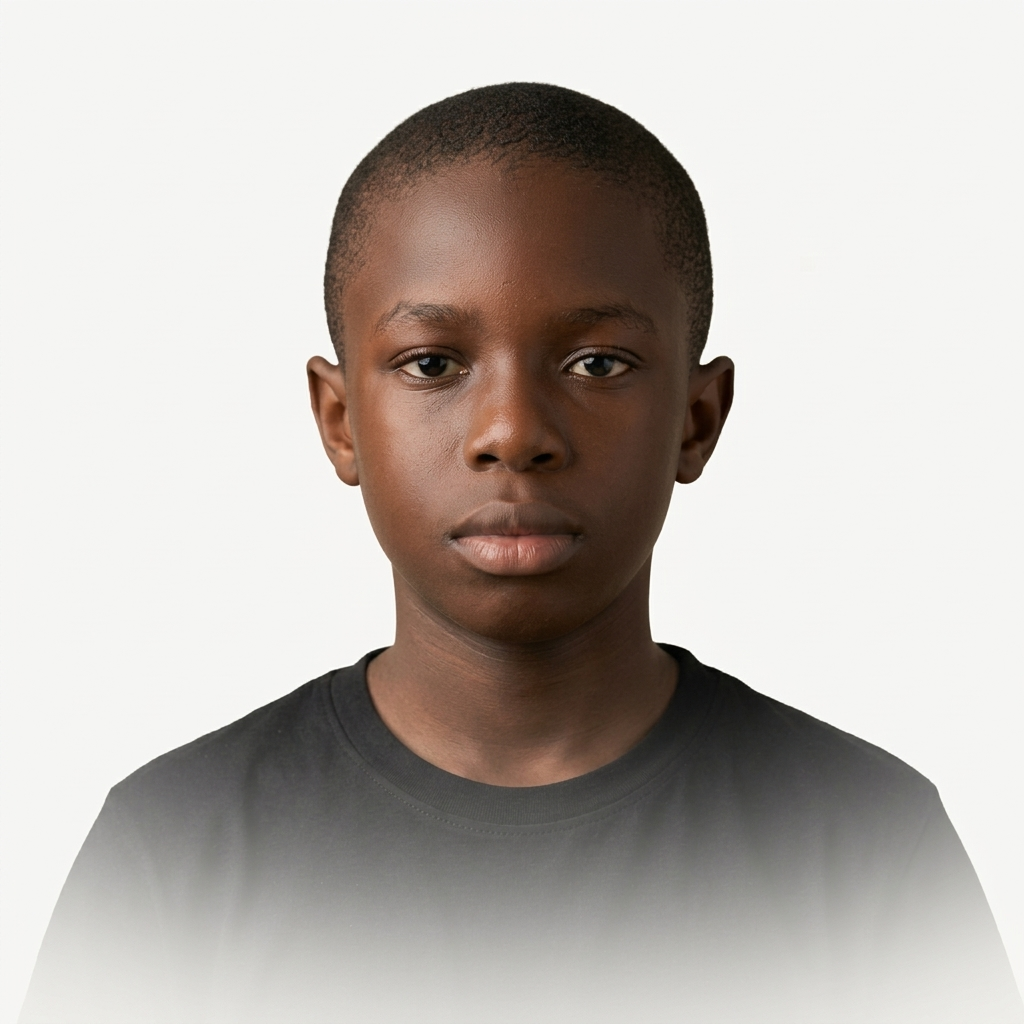
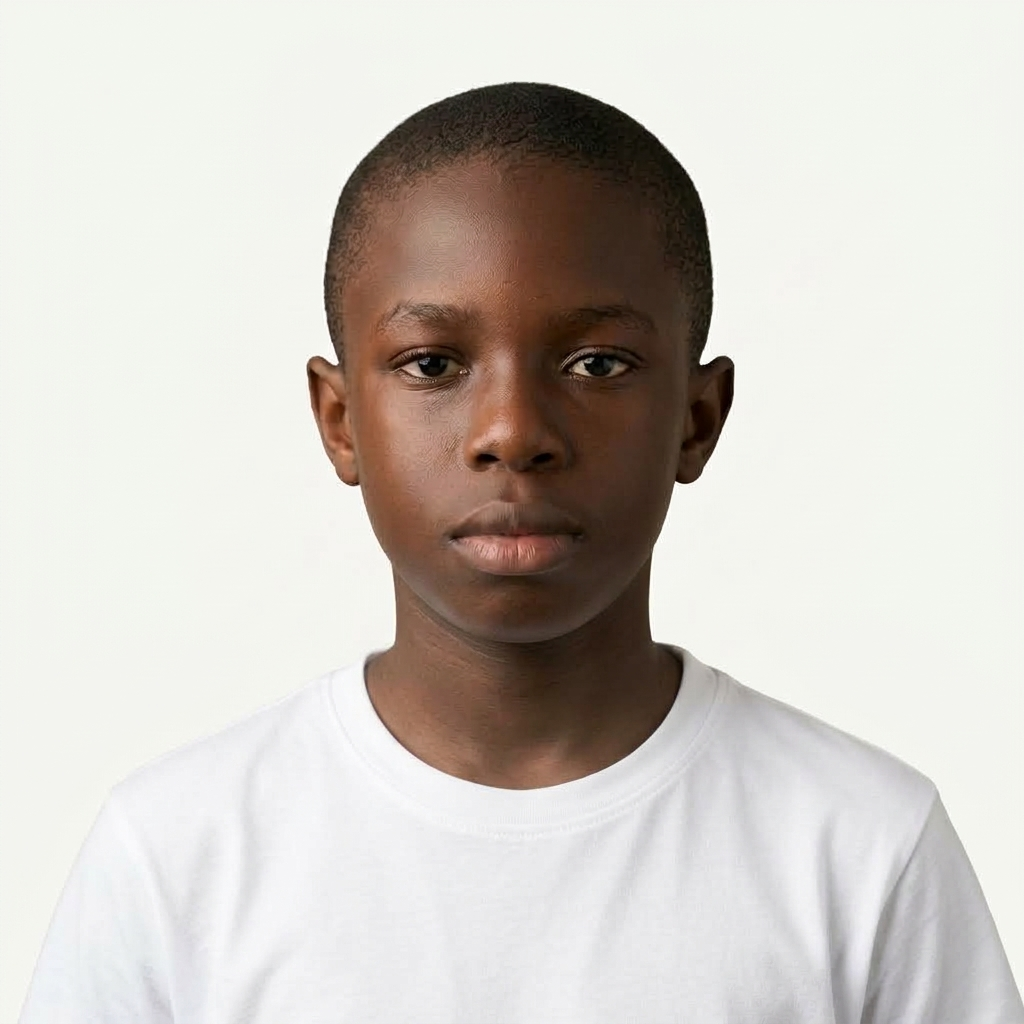
feat: clean up portrait with white t-shirt and place centered hero cutout matching Luzia Framer layout

Changed region(s): [[0.0312, 0.625, 1.0, 1.0], [0.4062, 0.5625, 0.5938, 0.625], [0.5312, 0.5312, 0.5625, 0.5625]]

diff --git a/src/components/sections/Hero.tsx b/src/components/sections/Hero.tsx
@@ -8,14 +8,14 @@ export default function Hero() {
   return (
     <section className="relative pt-24 pb-8 sm:pt-28 sm:pb-12 md:pt-36 md:pb-16 overflow-hidden">
       <div className="max-w-[1140px] mx-auto px-4 sm:px-6">
-        {/* Responsive Grid with Interactive Avatar Hover Card */}
-        <div className="relative grid grid-cols-1 lg:grid-cols-12 gap-8 lg:gap-6 items-center">
+        {/* Luzia Framer 3-Column / Centered Portrait Layout */}
+        <div className="relative grid grid-cols-1 lg:grid-cols-12 gap-8 lg:gap-4 items-center">
           {/* Left Column: Availability Badge + Main Display Headline */}
           <motion.div
             initial={{ opacity: 0, y: 24, filter: "blur(4px)" }}
             animate={{ opacity: 1, y: 0, filter: "blur(0px)" }}
             transition={{ duration: 0.65, ease: [0.16, 1, 0.3, 1] }}
-            className="lg:col-span-5 z-20 space-y-4 sm:space-y-6 text-left"
+            className="lg:col-span-4 z-20 space-y-4 sm:space-y-6 text-left"
           >
             {/* Availability Pill */}
             <div className="inline-flex items-center gap-2 rounded-full border border-[#E7E7E5] bg-white/90 backdrop-blur-sm px-3.5 py-1.5 shadow-sm">
@@ -35,12 +35,43 @@ export default function Hero() {
                 clean code and modern web design
               </span>
             </h1>
+          </motion.div>
 
+          {/* Center Column: Prominent Portrait Cutout (Luzia Framer Style) */}
+          <motion.div
+            initial={{ opacity: 0, scale: 0.95, y: 20 }}
+            animate={{ opacity: 1, scale: 1, y: 0 }}
+            transition={{ duration: 0.75, delay: 0.1, ease: [0.16, 1, 0.3, 1] }}
+            className="lg:col-span-4 flex justify-center items-center relative z-10 -my-4 sm:-my-6 lg:-my-8"
+          >
+            <div className="relative w-[280px] sm:w-[340px] md:w-[380px] aspect-square">
+              {/* Main Cutout Portrait with White T-Shirt and Seamless Studio Background */}
+              <Image
+                src="/images/tj_hero.jpg"
+                alt="Terrence J. Mark - Web Developer"
+                fill
+                priority
+                className="object-contain object-center select-none pointer-events-none drop-shadow-sm rounded-[24px]"
+                sizes="(max-width: 768px) 300px, 400px"
+              />
+
+              {/* Bottom Soft Gradient Mask to blend seamlessly into page background */}
+              <div className="absolute inset-x-0 bottom-0 h-16 bg-gradient-to-t from-[#F8F8F7] via-[#F8F8F7]/60 to-transparent pointer-events-none" />
+            </div>
+          </motion.div>
+
+          {/* Right Column: Bio Summary + Action CTA Button */}
+          <motion.div
+            initial={{ opacity: 0, y: 24, filter: "blur(4px)" }}
+            animate={{ opacity: 1, y: 0, filter: "blur(0px)" }}
+            transition={{ duration: 0.65, delay: 0.15, ease: [0.16, 1, 0.3, 1] }}
+            className="lg:col-span-4 z-20 space-y-6 text-left lg:text-left flex flex-col lg:items-start justify-center"
+          >
             <p className="text-sm sm:text-base text-[#666665] leading-relaxed font-normal max-w-md">
-              As a 12-year-old web developer and Spex intern, he collaborates closely with teams to craft seamless, responsive, and user-centered web applications.
+              As a 12-year-old web developer and Spex intern, he collaborates closely with teams to craft seamless, responsive, and user-centered web applications. A dedicated partner in bringing digital ideas to life.
             </p>
 
-            <div className="pt-2">
+            <div className="pt-1">
               <a
                 href="#contact"
                 className="group inline-flex items-center justify-center gap-2 rounded-full bg-[#111111] px-7 py-3.5 text-sm font-medium text-white transition-all duration-200 hover:bg-[#222222] active:scale-[0.97] shadow-[0_12px_28px_rgba(0,0,0,0.16)]"
@@ -50,44 +81,9 @@ export default function Hero() {
               </a>
             </div>
           </motion.div>
-
-          {/* Right Column: Interactive Profile Card with Dark Metallic Transition */}
-          <motion.div
-            initial={{ opacity: 0, scale: 0.95, y: 20 }}
-            animate={{ opacity: 1, scale: 1, y: 0 }}
-            transition={{ duration: 0.75, delay: 0.1, ease: [0.16, 1, 0.3, 1] }}
-            className="lg:col-span-7 flex justify-center lg:justify-end items-center relative z-10"
-          >
-            <div className="group relative w-full max-w-[320px] sm:max-w-[360px] rounded-[24px] border border-[#e2e8f0] bg-white p-6 sm:p-8 flex flex-col items-center text-center shadow-[0_4px_16px_rgba(0,0,0,0.05)] transition-all duration-300 ease-[cubic-bezier(0.16,1,0.3,1)] hover:bg-[linear-gradient(145deg,#242933_0%,#15181e_100%)] hover:border-white/20 hover:-translate-y-1.5 hover:shadow-[0_20px_40px_-8px_rgba(0,0,0,0.4)] cursor-pointer">
-              {/* Target Avatar Frame Ring */}
-              <div className="relative w-[150px] h-[150px] sm:w-[170px] sm:h-[170px] rounded-full p-1 bg-white border-[1.5px] border-[#e2e8f0] shadow-[0_4px_12px_rgba(0,0,0,0.06)] mb-5 transition-all duration-300 ease-[cubic-bezier(0.16,1,0.3,1)] group-hover:border-white/40 group-hover:bg-transparent group-hover:scale-[1.03] group-hover:shadow-[0_0_20px_rgba(255,255,255,0.2)] overflow-hidden">
-                <Image
-                  src="/images/tj_portrait.jpg"
-                  alt="Terrence J. Mark - Profile Avatar"
-                  fill
-                  priority
-                  className="rounded-full object-cover object-top p-0.5"
-                  sizes="170px"
-                />
-              </div>
-
-              {/* Title & Location */}
-              <h2 className="text-lg sm:text-xl font-semibold tracking-[-0.015em] text-[#0f172a] mb-1 transition-colors duration-200 group-hover:text-white">
-                Frontend Developer
-              </h2>
-              <span className="text-xs sm:text-sm font-medium text-[#64748b] transition-colors duration-200 group-hover:text-[#cbd5e1]">
-                Abuja, Nigeria
-              </span>
-
-              {/* Dynamic Badge */}
-              <div className="mt-4 inline-flex items-center gap-1.5 text-[11px] px-3.5 py-1 rounded-full bg-[#f1f5f9] text-[#475569] font-semibold tracking-[0.5px] uppercase transition-all duration-200 group-hover:bg-white/15 group-hover:text-[#e2e8f0]">
-                <span className="h-1.5 w-1.5 rounded-full bg-[#00C047] group-hover:bg-[#00FF87]" />
-                <span>12 y/o • Spex Intern</span>
-              </div>
-            </div>
-          </motion.div>
         </div>
       </div>
     </section>
   );
 }
+
